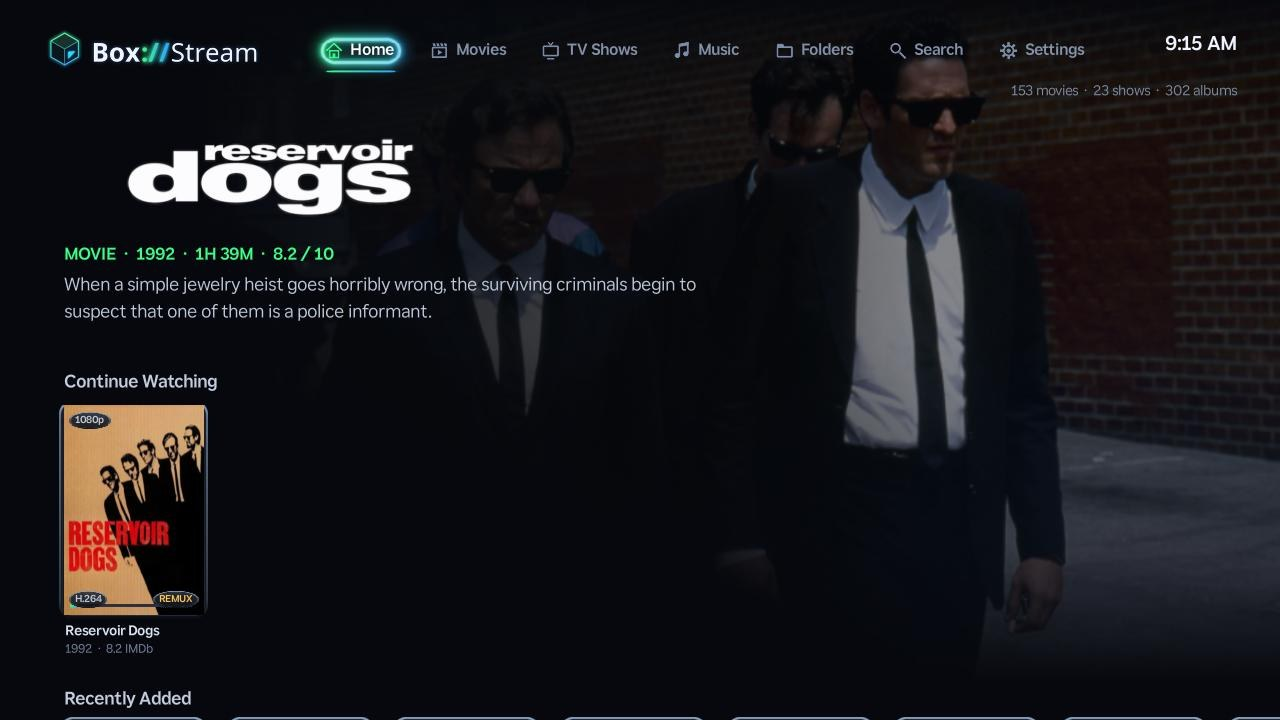
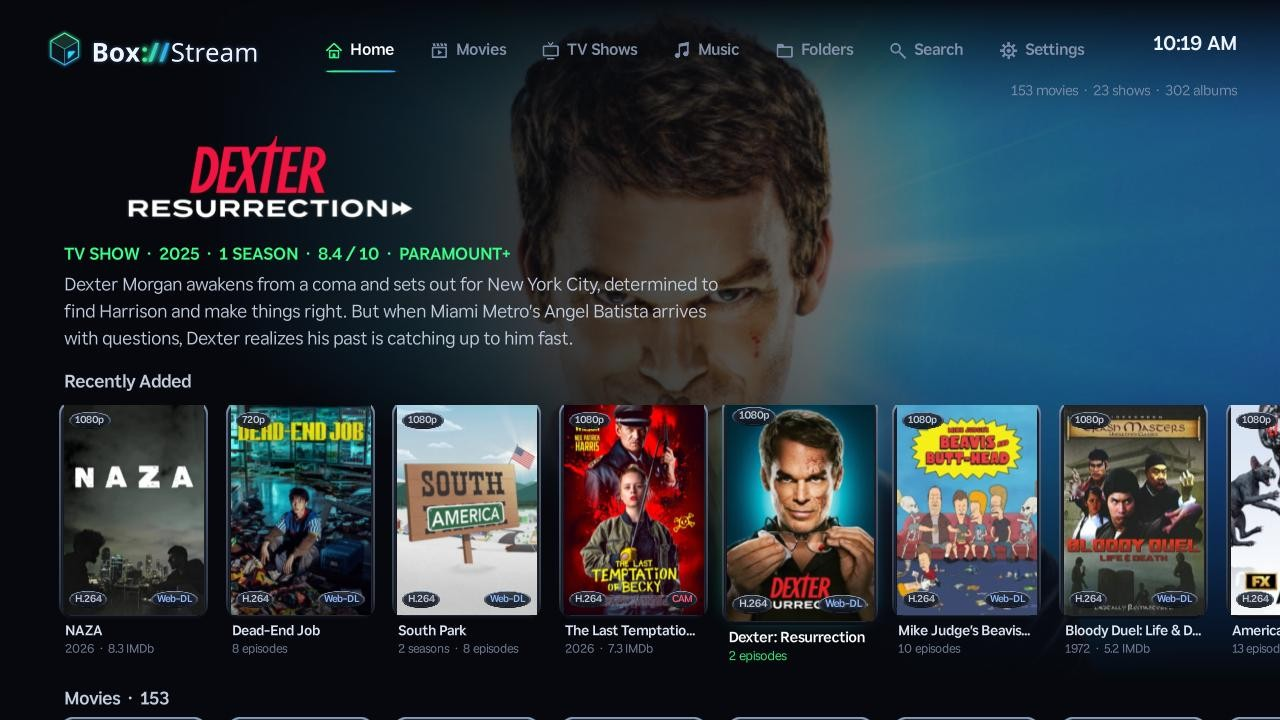
Add files via upload

diff --git a/README.md b/README.md
@@ -41,7 +41,7 @@ Open **Settings > Sources** and enter the web address of the folder that holds y
 
 Home opens on what you were watching and what was added last, with the selected title's artwork filling the screen. Posters, plots and cast come from IMDb data (via Cinemeta), TVmaze and Deezer, but your own `folder.jpg`, cover and poster images always come first. A wrong match can be fixed and anything can be hidden. Several sources can feed one library.
 
-![Home: Continue Watching and the selected title's artwork](assets/screenshots/home.jpg)
+![Home: Recently Added, with the selected title's logo and artwork filling the screen](assets/screenshots/home.jpg)
 
 The library is saved on the Roku, so it shows straight away at launch and survives updates. New, changed and removed files are picked up on start and every 30 minutes.
 
